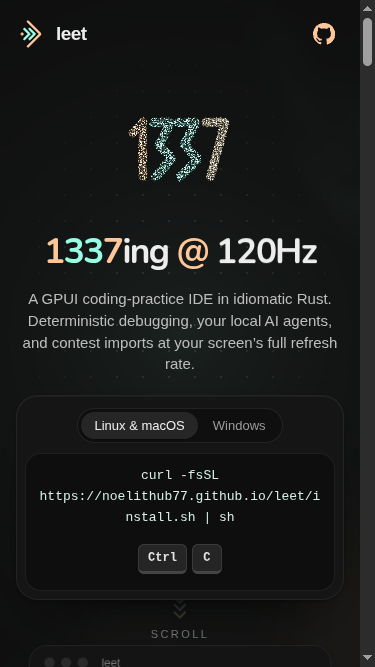
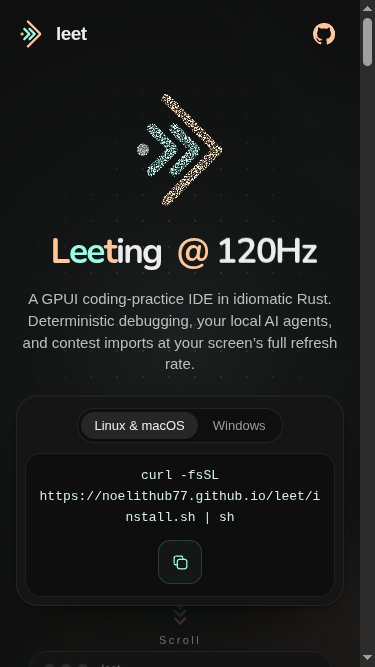
Simplify hero copy and preview demos inline
Remove the hero subtitles and replace README video link rows with compact looping previews. Give phones a centered copy-icon touch target while keeping desktop keycaps and copy feedback, and stop forcing the scroll cue to uppercase.

diff --git a/site/index.html b/site/index.html
@@ -54,13 +54,13 @@
       .command-row code{flex:1;min-width:0;font:13px/1.6 ui-monospace,"SF Mono","JetBrains Mono","Liberation Mono",Consolas,monospace;color:#d6eee7;white-space:nowrap;overflow-x:auto;scrollbar-width:none}
       .prompt{color:var(--peach);font-family:ui-monospace,monospace}
       .copy,.download{display:inline-flex;align-items:center;gap:10px;border:0;border-radius:999px;padding:10px 12px 10px 16px;background:var(--mint);color:var(--ink);font:700 14px/1 inherit;cursor:pointer;white-space:nowrap;box-shadow:0 6px 20px -8px #99ffe499}
-      .download{justify-content:space-between;width:100%;padding:13px 16px;border-radius:16px;background:#0e0e0e;color:var(--fg);border:1px solid var(--line);box-shadow:none}.download span{color:var(--muted);font-size:13px}.copy{padding:4px;gap:5px;border-radius:10px;background:transparent;color:var(--fg);box-shadow:none}.copy-label{display:none}
+      .download{justify-content:space-between;width:100%;padding:13px 16px;border-radius:16px;background:#0e0e0e;color:var(--fg);border:1px solid var(--line);box-shadow:none}.download span{color:var(--muted);font-size:13px}.copy{padding:4px;gap:5px;border-radius:10px;background:transparent;color:var(--fg);box-shadow:none}.copy-label,.copy-icon{display:none}.copy-icon{width:19px;height:19px;fill:none;stroke:currentColor;stroke-width:1.6;stroke-linecap:round;stroke-linejoin:round}
       kbd{display:inline-grid;place-items:center;min-width:22px;height:22px;padding:0 6px;border-radius:7px;font:700 11px/1 inherit}
       .copy kbd{height:30px;min-width:30px;padding:0 9px;border-radius:6px;background:#252525;border:1px solid #3b3b3b;border-bottom:3px solid #454545;color:#e3e3e3;font:600 12px/1 ui-monospace,"SF Mono","Liberation Mono",monospace}.copy kbd[data-mod]{min-width:46px}.copy kbd.is-mac{min-width:30px;font:500 20px/1 "Liberation Sans",sans-serif}
       .marks{display:flex;gap:18px;justify-content:center;margin:26px 0 0;padding:0;list-style:none;color:#6f6f6f}
       .marks i{display:block;width:20px;height:20px;background:currentColor;mask:var(--icon) center/contain no-repeat;-webkit-mask:var(--icon) center/contain no-repeat}
       [hidden]{display:none!important}
-      @media (max-width:640px){.command-row{flex-direction:column;align-items:stretch;padding:12px}.command-row code{white-space:normal;overflow-wrap:anywhere}.copy{justify-content:center;align-self:center;padding:4px}.install-head span,.command-row .prompt{display:none}}
+      @media (max-width:640px){.command-row{flex-direction:column;align-items:stretch;padding:12px}.command-row code{white-space:normal;overflow-wrap:anywhere}.copy{justify-content:center;align-self:center;min-width:44px;min-height:44px;padding:10px;border:1px solid #99ffe429;border-radius:12px;background:#99ffe40a;color:var(--mint)}.copy kbd{display:none}.copy-icon{display:block}.install-head span,.command-row .prompt{display:none}}
     </style>
     <script type="module" src="/src/main.js"></script>
   </head>
@@ -102,7 +102,7 @@
             <div class="command-row" data-panel="unix">
               <span class="prompt" aria-hidden="true">$</span>
               <code data-command>curl -fsSL https://noelithub77.github.io/leet/install.sh | sh</code>
-              <button class="copy" type="button" aria-label="Copy install command" data-copy aria-keyshortcuts="Control+C Meta+C"><span class="copy-label" data-copy-label aria-live="polite"></span><kbd data-mod>Ctrl</kbd><kbd>C</kbd></button>
+              <button class="copy" type="button" aria-label="Copy install command" data-copy aria-keyshortcuts="Control+C Meta+C"><span class="copy-label" data-copy-label aria-live="polite"></span><kbd data-mod>Ctrl</kbd><kbd>C</kbd><svg class="copy-icon" viewBox="0 0 24 24" aria-hidden="true"><rect x="8" y="8" width="12" height="12" rx="3"/><path d="M15 8V6a2 2 0 0 0-2-2H6a2 2 0 0 0-2 2v7a2 2 0 0 0 2 2h2"/></svg></button>
             </div>
             <a class="download" data-panel="windows" hidden href="https://github.com/Noelithub77/leet/releases/latest/download/leet-windows-x86_64.exe">Download for Windows <span aria-hidden="true">.exe ↓</span></a>
           </div>
@@ -329,7 +329,7 @@
             <div class="command-row" data-panel="unix">
               <span class="prompt" aria-hidden="true">$</span>
               <code data-command>curl -fsSL https://noelithub77.github.io/leet/install.sh | sh</code>
-              <button class="copy" type="button" aria-label="Copy install command" data-copy aria-keyshortcuts="Control+C Meta+C"><span class="copy-label" data-copy-label aria-live="polite"></span><kbd data-mod>Ctrl</kbd><kbd>C</kbd></button>
+              <button class="copy" type="button" aria-label="Copy install command" data-copy aria-keyshortcuts="Control+C Meta+C"><span class="copy-label" data-copy-label aria-live="polite"></span><kbd data-mod>Ctrl</kbd><kbd>C</kbd><svg class="copy-icon" viewBox="0 0 24 24" aria-hidden="true"><rect x="8" y="8" width="12" height="12" rx="3"/><path d="M15 8V6a2 2 0 0 0-2-2H6a2 2 0 0 0-2 2v7a2 2 0 0 0 2 2h2"/></svg></button>
             </div>
             <a class="download" data-panel="windows" hidden href="https://github.com/Noelithub77/leet/releases/latest/download/leet-windows-x86_64.exe">Download for Windows <span aria-hidden="true">.exe ↓</span></a>
           </div>

diff --git a/site/src/style.css b/site/src/style.css
@@ -69,12 +69,12 @@ h2, h3, .dbg-title, .cph-title { font-family: "Nunito", "Liberation Sans", sans-
 .copy kbd.is-pressed, .copy:active kbd { transform: translateY(2px); border-bottom-width: 1px; background: #303530; }
 .copy-label { display: none; }
 .is-copied .copy-label { display: inline-flex; align-items: center; gap: 6px; min-height: 30px; padding-inline: 8px; color: var(--mint); }
-.is-copied .copy kbd { display: none; }
+.is-copied .copy kbd, .is-copied .copy-icon { display: none; }
 .copy-label svg { width: 15px; height: 15px; fill: none; stroke: currentColor; stroke-width: 2.4; stroke-linecap: round; stroke-linejoin: round; stroke-dasharray: 20; animation: tick .45s var(--ease) both; }
 @keyframes tick { from { stroke-dashoffset: 20; } to { stroke-dashoffset: 0; } }
 .spark { position: absolute; left: 50%; top: 50%; width: 6px; height: 6px; border-radius: 2px; pointer-events: none; }
 
-.scroll-cue { position: absolute; left: 50%; bottom: max(28px, env(safe-area-inset-bottom)); display: grid; justify-items: center; gap: 8px; translate: -50% 0; color: #777; font-size: 11px; letter-spacing: .22em; text-transform: uppercase; transition: opacity .5s; }
+.scroll-cue { position: absolute; left: 50%; bottom: max(28px, env(safe-area-inset-bottom)); display: grid; justify-items: center; gap: 8px; translate: -50% 0; color: #777; font-size: 11px; letter-spacing: .22em; text-transform: none; transition: opacity .5s; }
 .scroll-cue svg { width: 18px; height: 26px; fill: none; stroke-width: 2.6; stroke-linecap: round; stroke-linejoin: round; }
 .scroll-cue path { stroke: var(--mint); animation: cue 1.6s var(--ease) infinite; }
 .scroll-cue path:nth-child(2) { animation-delay: .16s; }
@@ -292,6 +292,7 @@ h2, h3, .dbg-title, .cph-title { font-family: "Nunito", "Liberation Sans", sans-
   .install > .platforms { display: flex; width: max-content; margin-inline: auto; }
   .command-row code { text-align: center; }
   .command-row .copy { justify-content: center; }
+  .copy:hover { background: #99ffe417; border-color: #99ffe455; }
   .hero { padding: 90px 20px 100px; }
   .hero .mark { width: clamp(140px, 36vw, 180px); top: 12px; }
   .hero h1 { font-size: clamp(34px, 9.4vw, 56px); margin-top: 32px; }

diff --git a/README.md b/README.md
@@ -30,16 +30,11 @@ A native, keyboard-first coding-practice IDE in **idiomatic Rust**, powered by *
 
 ## See it in motion
 
-[![Leet editor, problem statement, local cases and results in the Vesper theme](site/public/media/problem.webp)](site/public/media/flow.mp4)
-
-**[▶ Workspace video · MP4](site/public/media/flow.mp4)** · [120 fps WebM](site/public/media/flow-120.webm) · [Watch all demos on the website](https://noelithub77.github.io/leet/#tour)
+[![Leet editor, problem statement, local cases and results in the Vesper theme](docs/assets/workspace-demo.webp)](site/public/media/flow.mp4)
 
 | Deterministic visual debugger | Your local AI agents |
 | --- | --- |
-| [![Debugger timeline and program state](site/public/media/debugger-800.webp)](site/public/media/debugger.mp4) | [![Native AI chat and coding assistance](site/public/media/ai-800.webp)](site/public/media/ai.mp4) |
-| [▶ Debugger video](site/public/media/debugger.mp4) · [120 fps WebM](site/public/media/debugger-120.webm) | [▶ AI video](site/public/media/ai.mp4) |
-
-The videos show the real desktop app. Click a preview to open its recording, or use the website for inline playback and the interactive debugger replay.
+| [![Debugger timeline and program state](docs/assets/debugger-demo.webp)](site/public/media/debugger.mp4) | [![Native AI chat and coding assistance](docs/assets/ai-demo.webp)](site/public/media/ai.mp4) |
 
 ## A complete practice workspace
 

diff --git a/plan/readme-open-source/README.md b/plan/readme-open-source/README.md
@@ -1,8 +1,8 @@
 # README and open-source setup
 
-[CHOSEN] GitHub-compatible Markdown with Vesper-colored declarative SVG artwork, an executable download link, GitHub’s built-in code-block copying, real screenshot previews, and links to the existing optimized MP4/120 fps WebM recordings. No new dependency.
+[chosen] GitHub-compatible Markdown with Vesper-colored declarative SVG artwork, an executable download link, GitHub’s built-in code-block copying, compact looping WebP previews linked to the existing optimized recordings. No new dependency.
 
-[CHOSEN] GNU AGPL v3 only for current source, with matching Cargo metadata and preserved third-party notices. Prior tags retain their own license.
+[chosen] GNU AGPL v3 only for current source, with matching Cargo metadata and preserved third-party notices. Prior tags retain their own license.
 
 Add contribution/security/conduct guidance, focused issue forms and a PR template. Enable GitHub private vulnerability reporting. Set the Vite development port to 1337 with strict port handling. Correct stale landing-page instructions.
 
